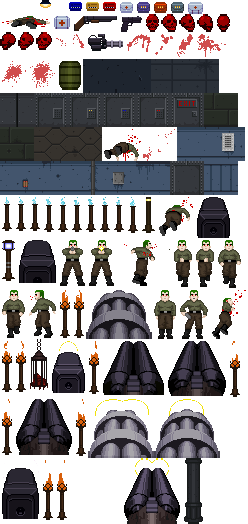
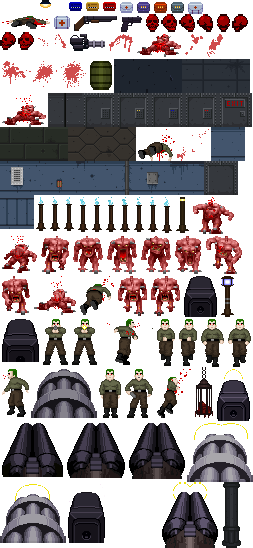
Added demon

diff --git a/src/assets/scripts/components/Game/scenes/WorldScene/entities/AbstractChaseEnemy/index.js b/src/assets/scripts/components/Game/scenes/WorldScene/entities/AbstractChaseEnemy/index.js
@@ -1,0 +1,48 @@
+import AbstractEnemy from '../AbstractEnemy';
+
+/**
+ * Abstract class representing a gun enemy.
+ * @extends {AbstractEnemy}
+ */
+class AbstractChaseEnemy extends AbstractEnemy {
+  /**
+   * @param  {Number} options.x               The x coordinate of the character.
+   * @param  {Number} options.y               The y coordinate of the character
+   * @param  {Number} options.width           The width of the character.
+   * @param  {Number} options.length          The length of the character.
+   * @param  {Number} options.height          The height of the character.
+   * @param  {Number} options.angle           The angle of the character.
+   * @param  {Number} options.maxHealth       The maximum health of the character.
+   * @param  {Number} options.maxVelocity     The maximum velocity of the enemy.
+   * @param  {Number} options.attackRange     The attack range of the enemy.
+   * @param  {Number} options.attackTime      The time between attacks.
+   * @param  {Number} options.hurtTime        The time the enemy remains hurt when hit.
+   * @param  {Number} options.acceleration    The acceleration of the enemy.
+   */
+  constructor(options) {
+    super(options);
+
+    if (this.constructor === AbstractEnemy) {
+      throw new TypeError('Can not construct abstract class.');
+    }
+  }
+
+  /**
+   * Attack a target.
+   */
+  attack() {
+    console.log('attack');
+    // const { player } = this.world;
+    // const ray = this.castRay();
+
+    // this.emitSound(this.sounds.attack, {
+    //   distance: this.distanceToPlayer,
+    // });
+
+    // if (player.rayCollision(ray)) {
+    //   player.hurt(this.attackPower);
+    // }
+  }
+}
+
+export default AbstractChaseEnemy;

diff --git a/src/assets/scripts/components/Game/scenes/WorldScene/entities/Demon/index.js b/src/assets/scripts/components/Game/scenes/WorldScene/entities/Demon/index.js
@@ -1,0 +1,30 @@
+import { ENEMY_TYPES } from 'game/constants/assets';
+import AbstractGunEnemy from '../AbstractGunEnemy';
+
+/**
+ * Class representing an amp enemy.
+ */
+class Demon extends AbstractGunEnemy {
+  /**
+   * Creates an amp enemy.
+   * @param  {Number} options.x               The x coordinate of the character.
+   * @param  {Number} options.y               The y coordinate of the character
+   * @param  {Number} options.width           The width of the character.
+   * @param  {Number} options.length          The length of the character.
+   * @param  {Number} options.height          The height of the character.
+   * @param  {Number} options.angle           The angle of the character.
+   * @param  {Number} options.maxHealth       The maximum health of the character.
+   * @param  {Number} options.maxVelocity     The maximum velocity of the enemy.
+   * @param  {Number} options.attackRange     The attack range of the enemy.
+   * @param  {Number} options.attackTime      The time between attacks.
+   * @param  {Number} options.hurtTime        The time the enemy remains hurt when hit.
+   * @param  {Number} options.acceleration    The acceleration of the enemy.
+   */
+  constructor(options) {
+    super(options);
+
+    this.type = ENEMY_TYPES.DEMON;
+  }
+}
+
+export default Demon;

diff --git a/src/assets/scripts/components/Game/scenes/TitleScene/sprites/LogoSprite/index.js b/src/assets/scripts/components/Game/scenes/TitleScene/sprites/LogoSprite/index.js
@@ -24,9 +24,9 @@ class LogoSprite extends AnimatedSprite {
       loop: true,
     });
 
+    this.maxScale = SCREEN.HEIGHT / this.height / 2;
+
     this.scaleFactor = 0;
-    this.height /= this.height / (SCREEN.HEIGHT / 2);
-    this.width /= this.height / (SCREEN.HEIGHT / 2);
     this.scale.x = this.scaleFactor;
     this.scale.y = this.scaleFactor;
     this.timer = 0;
@@ -66,8 +66,8 @@ class LogoSprite extends AnimatedSprite {
   updateFadingIn(delta) {
     this.scaleFactor += SCALE_INCREMENT * delta;
 
-    if (this.scaleFactor >= 1) {
-      this.scaleFactor = 1;
+    if (this.scaleFactor >= this.maxScale) {
+      this.scaleFactor = this.maxScale;
       this.setStatic();
     }
 

diff --git a/src/assets/scripts/components/Game/scenes/WorldScene/parsers/bodies.js b/src/assets/scripts/components/Game/scenes/WorldScene/parsers/bodies.js
@@ -5,6 +5,7 @@ import World from '../entities/World';
 import Door from '../entities/Door';
 import Entity from '../entities/Entity';
 import Grunt from '../entities/Grunt';
+import Demon from '../entities/Demon';
 import Player from '../entities/Player';
 import KeyItem from '../entities/KeyItem';
 import AmmoItem from '../entities/AmmoItem';
@@ -20,6 +21,7 @@ const ITEMS = {
 
 const ENEMIES = {
   [ENEMY_TYPES.GRUNT]: Grunt,
+  [ENEMY_TYPES.DEMON]: Demon,
 };
 
 const createCell = ({ cell, props }) => {

diff --git a/src/assets/scripts/components/Game/scenes/TitleScene/sprites/SparksSprite/index.js b/src/assets/scripts/components/Game/scenes/TitleScene/sprites/SparksSprite/index.js
@@ -1,4 +1,5 @@
 import { AnimatedSprite } from 'game/core/graphics';
+import { SCREEN } from 'game/constants/config';
 
 /**
  * Class representing a sparks sprite.
@@ -13,6 +14,13 @@ class SparksSprite extends AnimatedSprite {
       animationSpeed: 0.4,
       loop: true,
     });
+
+    const ratio = SCREEN.WIDTH / this.width;
+
+    this.height *= ratio;
+    this.width *= ratio;
+
+    this.y = SCREEN.HEIGHT - this.height;
   }
 }
 

diff --git a/src/assets/scripts/components/Game/index.js b/src/assets/scripts/components/Game/index.js
@@ -92,7 +92,7 @@ class Game extends Application {
     this.ticker.start();
     this.sound.add(GAME_SOUNDS.NAME, sound);
 
-    this.showTitleScene();
+    this.showWorldScene();
 
     this.emit(EVENTS.STARTED);
   }

diff --git a/src/assets/scripts/components/Game/constants/assets.js b/src/assets/scripts/components/Game/constants/assets.js
@@ -98,6 +98,7 @@ export const ITEM_TYPES = {
  */
 export const ENEMY_TYPES = {
   GRUNT: 'grunt',
+  DEMON: 'demon',
 };
 
 /**
